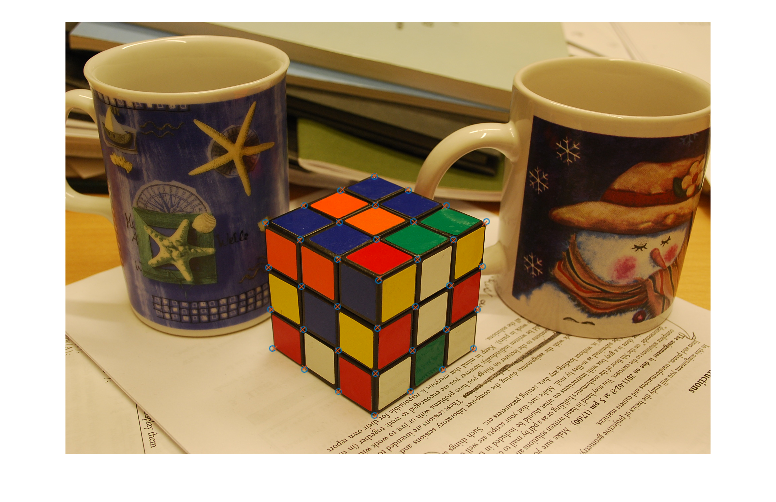
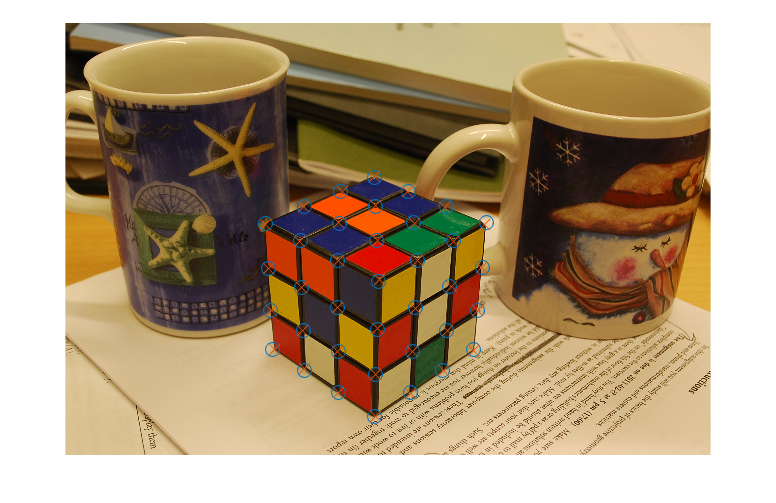
m

diff --git a/Assignment 3/CompEx2.m b/Assignment 3/CompEx2.m
@@ -6,14 +6,15 @@ load ex1.mat
 kron1 = imread('kronan1.JPG');
 kron2 = imread('kronan2.JPG');
 
+% Here, F is already normalized
 e2 = null(F'); 
 Pa = [eye(3,3), zeros(3,1)];
 Pb = [[0, -e2(3), e2(2); 
        e2(3),0,-e2(1);
        -e2(2),e2(1),0]*F,e2];
-   
-x1 = N1*x1;
-x2 = N2*x2;
+
+x1 = x{1};
+x2 = x{2};
 
 X = zeros(4,length(x1));
 for i = 1:length(x1)
@@ -27,24 +28,22 @@ X = pflat(X);
 
 xproj1 = pflat( Pa * X );
 xproj2 = pflat( Pb * X );
-good_points = ( sqrt( sum(( x1 - xproj1).^2)) < 3 & ...
-sqrt( sum(( x2 - xproj2).^2)) < 3);
+
+%good_points = ( sqrt( sum(( x1 - xproj1).^2)) < 5 & ...
+%sqrt( sum(( x2 - xproj2).^2)) < 5);
+% figure
+% axis equal
+% scatter3(X(1,good_points), X(2,good_points), X(3,good_points));
+
 figure
-axis equal
-scatter3(X(1,good_points), X(2,good_points), X(3,good_points));
+imshow(kron1)
+hold on
+scatter(xproj1(1,:), xproj1(2,:))
+scatter(x1(1,:), x1(2,:), 'rx');
 
-
-% figure
-% imshow(kron1)
-% hold on
-% scatter(xproj1(1,:), xproj1(2,:))
-% hold on
-% scatter(x1(1,:), x1(2,:), 'rx');
-% hold off
-% 
-% figure
-% imshow(kron2)
-% hold on
-% scatter(xproj2(1,:), xproj2(2,:))
-% scatter(x2(1,:), x2(2,:), 'rx');
-% hold off
+figure
+imshow(kron2)
+hold on
+scatter(xproj2(1,:), xproj2(2,:))
+scatter(x2(1,:), x2(2,:), 'rx');
+hold off

diff --git a/Assignment 2/ex1.m b/Assignment 2/ex1.m
@@ -1,4 +1,12 @@
 load compEx1data.mat
+%%
+figure
+plotcams(P);
+axis equal
+hold on
+scatter3(X(1,:), X(2,:), X(3,:), 'b')
+
+%%
 plotcams(P);
 axis equal
 im = {};
@@ -21,17 +29,37 @@ T2 = [1 0 0 0; 0 1 0 0; 0 0 1 0; 0.0625 0.0625 0 1];
 T1P = {};
 T2P = {};
 for i = 1:9
-    T1P{i} = P{i}*T1;
-    T2P{i} = P{i}*T2;
+    T1P{i} = P{i}*inv(T1);
+    T2P{i} = P{i}*inv(T2);
 end
-T1X = (T1\X);
-T2X = (T2\X);
+T1X = (T1*X);
+T2X = (T2*X);
 
 T1points = pflat(T1P{1}*T1X);
 imshow(im{1})
 hold on
 scatter(T1points(1,vis), T1points(2,vis), '.')
 scatter(points(1,vis), points(2,vis))
+
+%%
+T1X = pflat(T1X);
+T2X = pflat(T2X);
+
+%%
+figure
+axis equal
+scatter3(T1X(1,:),T1X(2,:),T1X(3,:),'.')
+hold on
+plotcams(T1P);
+hold off
+
+%%
+figure
+axis equal
+scatter3(T2X(1,:),T2X(2,:),T2X(3,:),'.')
+hold on
+plotcams(T2P);
+hold off
 
 %%
 figure
@@ -41,6 +69,7 @@ scatter3(X(1,:),X(2,:),X(3,:))
 plotcams(P);
 plotcams(T1P);
 hold off
+
 %%
 figure
 scatter3(T2X(1,:),T2X(2,:),T2X(3,:),'.')

diff --git a/Assignment 3/CompEx4.m b/Assignment 3/CompEx4.m
@@ -10,6 +10,7 @@ load ex3.mat
 
 x1 = K\x{1};
 x2 = K\x{2};
+
 Pa = [eye(3) zeros(3,1)];
 [U,S,V] = svd(E);
 W = [0 -1 0; 1 0 0; 0 0 1];
@@ -31,12 +32,16 @@ end
 
 X = pflat(X);
 
-xproj1 = pflat(Pa * X );
-xproj2 = pflat(Pb * X );
+xproj1 = pflat(K*Pa * X );
+xproj2 = pflat(K*Pb * X );
+
+x1 = pflat(K*x1);
+x2 = pflat(K*x2);
 
 good_points = ( sqrt( sum(( x1(1:2 ,:) - xproj1(1:2 ,:)).^2)) < 3 & ...
 sqrt( sum(( x2(1:2 ,:) - xproj2(1:2 ,:)).^2)) < 3);
 
+%%
 figure
 scatter3(X(1,good_points),X(2,good_points),X(3,good_points))
 hold on
@@ -44,8 +49,9 @@ scatter3(b1(1),b1(2),b1(3))
 quiver3(b1(1),b1(2),b1(3),n1(1),n1(2),n1(3),1/norm(n1));
 scatter3(b2(1),b2(2),b2(3))
 quiver3(b2(1),b2(2),b2(3),n2(1),n2(2),n2(3),1/norm(n2));
+hold off
 
-
+%%
 figure
 imshow(kron1)
 hold on
@@ -53,6 +59,7 @@ scatter(x1(1,good_points), x1(2,good_points))
 scatter(xproj1(1,good_points),xproj1(2,good_points),'x')
 hold off
 
+%%
 figure
 imshow(kron2)
 hold on

diff --git a/Assignment 2/ex3.m b/Assignment 2/ex3.m
@@ -39,9 +39,12 @@ img_pts = pflat(P2*X);
 figure
 imshow(cube2)
 hold on
-scatter(img_pts(1,:), img_pts(2,:))
-scatter(x{2}(1,:), x{2}(2,:), 'x')
+scatter(img_pts(1,:), img_pts(2,:), 200, 'o');
+scatter(x{2}(1,:), x{2}(2,:),200 , 'x');
+
 hold off
+
+[K,R] = rq(P2(:,1:3));
 
 %%
 mu = mean(x{1}, 2);
@@ -83,8 +86,8 @@ img_pts = pflat(P*X);
 figure
 imshow(cube1)
 hold on
-scatter(img_pts(1,:), img_pts(2,:))
-scatter(x{1}(1,:), x{1}(2,:), 'x')
+scatter(img_pts(1,:), img_pts(2,:), 200, 'o')
+scatter(x{1}(1,:), x{1}(2,:), 200, 'x')
 hold off
 
 [K,R] = rq(P(:,1:3));

diff --git a/Assignment 3/Non_Comp/Exercise6.m b/Assignment 3/Non_Comp/Exercise6.m
@@ -1,3 +1,8 @@
+clear
+close all
+restoredefaultpath
+addpath('assignment3data')
+
 U = [1/sqrt(2),-1/sqrt(2),0;1/sqrt(2),1/sqrt(2),0;0,0,1];
 V = [1,0,0;0,0,-1;0,1,0];
 det(U*V'); % = 1
@@ -12,6 +17,11 @@ P2_1 = [U*W*V', U(:,3)];
 P2_2 = [U*W*V', -U(:,3)];
 P2_3 = [U*W'*V', U(:,3)];
 P2_4 = [U*W'*V', -U(:,3)];
+
+pflat(P2_1*X(-1/sqrt(2)))
+pflat(P2_2*X(1/sqrt(2)))
+pflat(P2_3*X(1/sqrt(2)))
+pflat(P2_4*X(-1/sqrt(2)))
 
 function a = X(s)
     a = [0;0;1;s];

diff --git a/Assignment 3/CompEx1.m b/Assignment 3/CompEx1.m
@@ -7,10 +7,8 @@ load compEx1data.mat
 kron1 = imread('kronan1.JPG');
 kron2 = imread('kronan2.JPG');
 
-notnan = isfinite(x{1}(1,:));
-notnan = isfinite(x{2}(1,:)).*notnan;
-x1 = x{1}(:,logical(notnan));
-x2 = x{2}(:,logical(notnan));
+x1 = x{1};
+x2 = x{2};
 mu = mean(x1, 2);
 sigma = std(x1');
 N1 = [1/sigma(1) 0 -(1/sigma(1))*mu(1);

diff --git a/Assignment 2/ex4nocomp.m b/Assignment 2/ex4nocomp.m
@@ -1,0 +1,9 @@
+P = [1000, -250, 250/sqrt(3), 500;
+    0, 500*(sqrt(3)-(1/2)) 500*(1+(sqrt(3)/2)), 500;
+    0, -1/2, sqrt(3)/2, 1];
+K = [1000 0 500;
+    0 1000 500;
+    0   0   1];
+kinv = inv(K);
+
+normP = kinv*P
